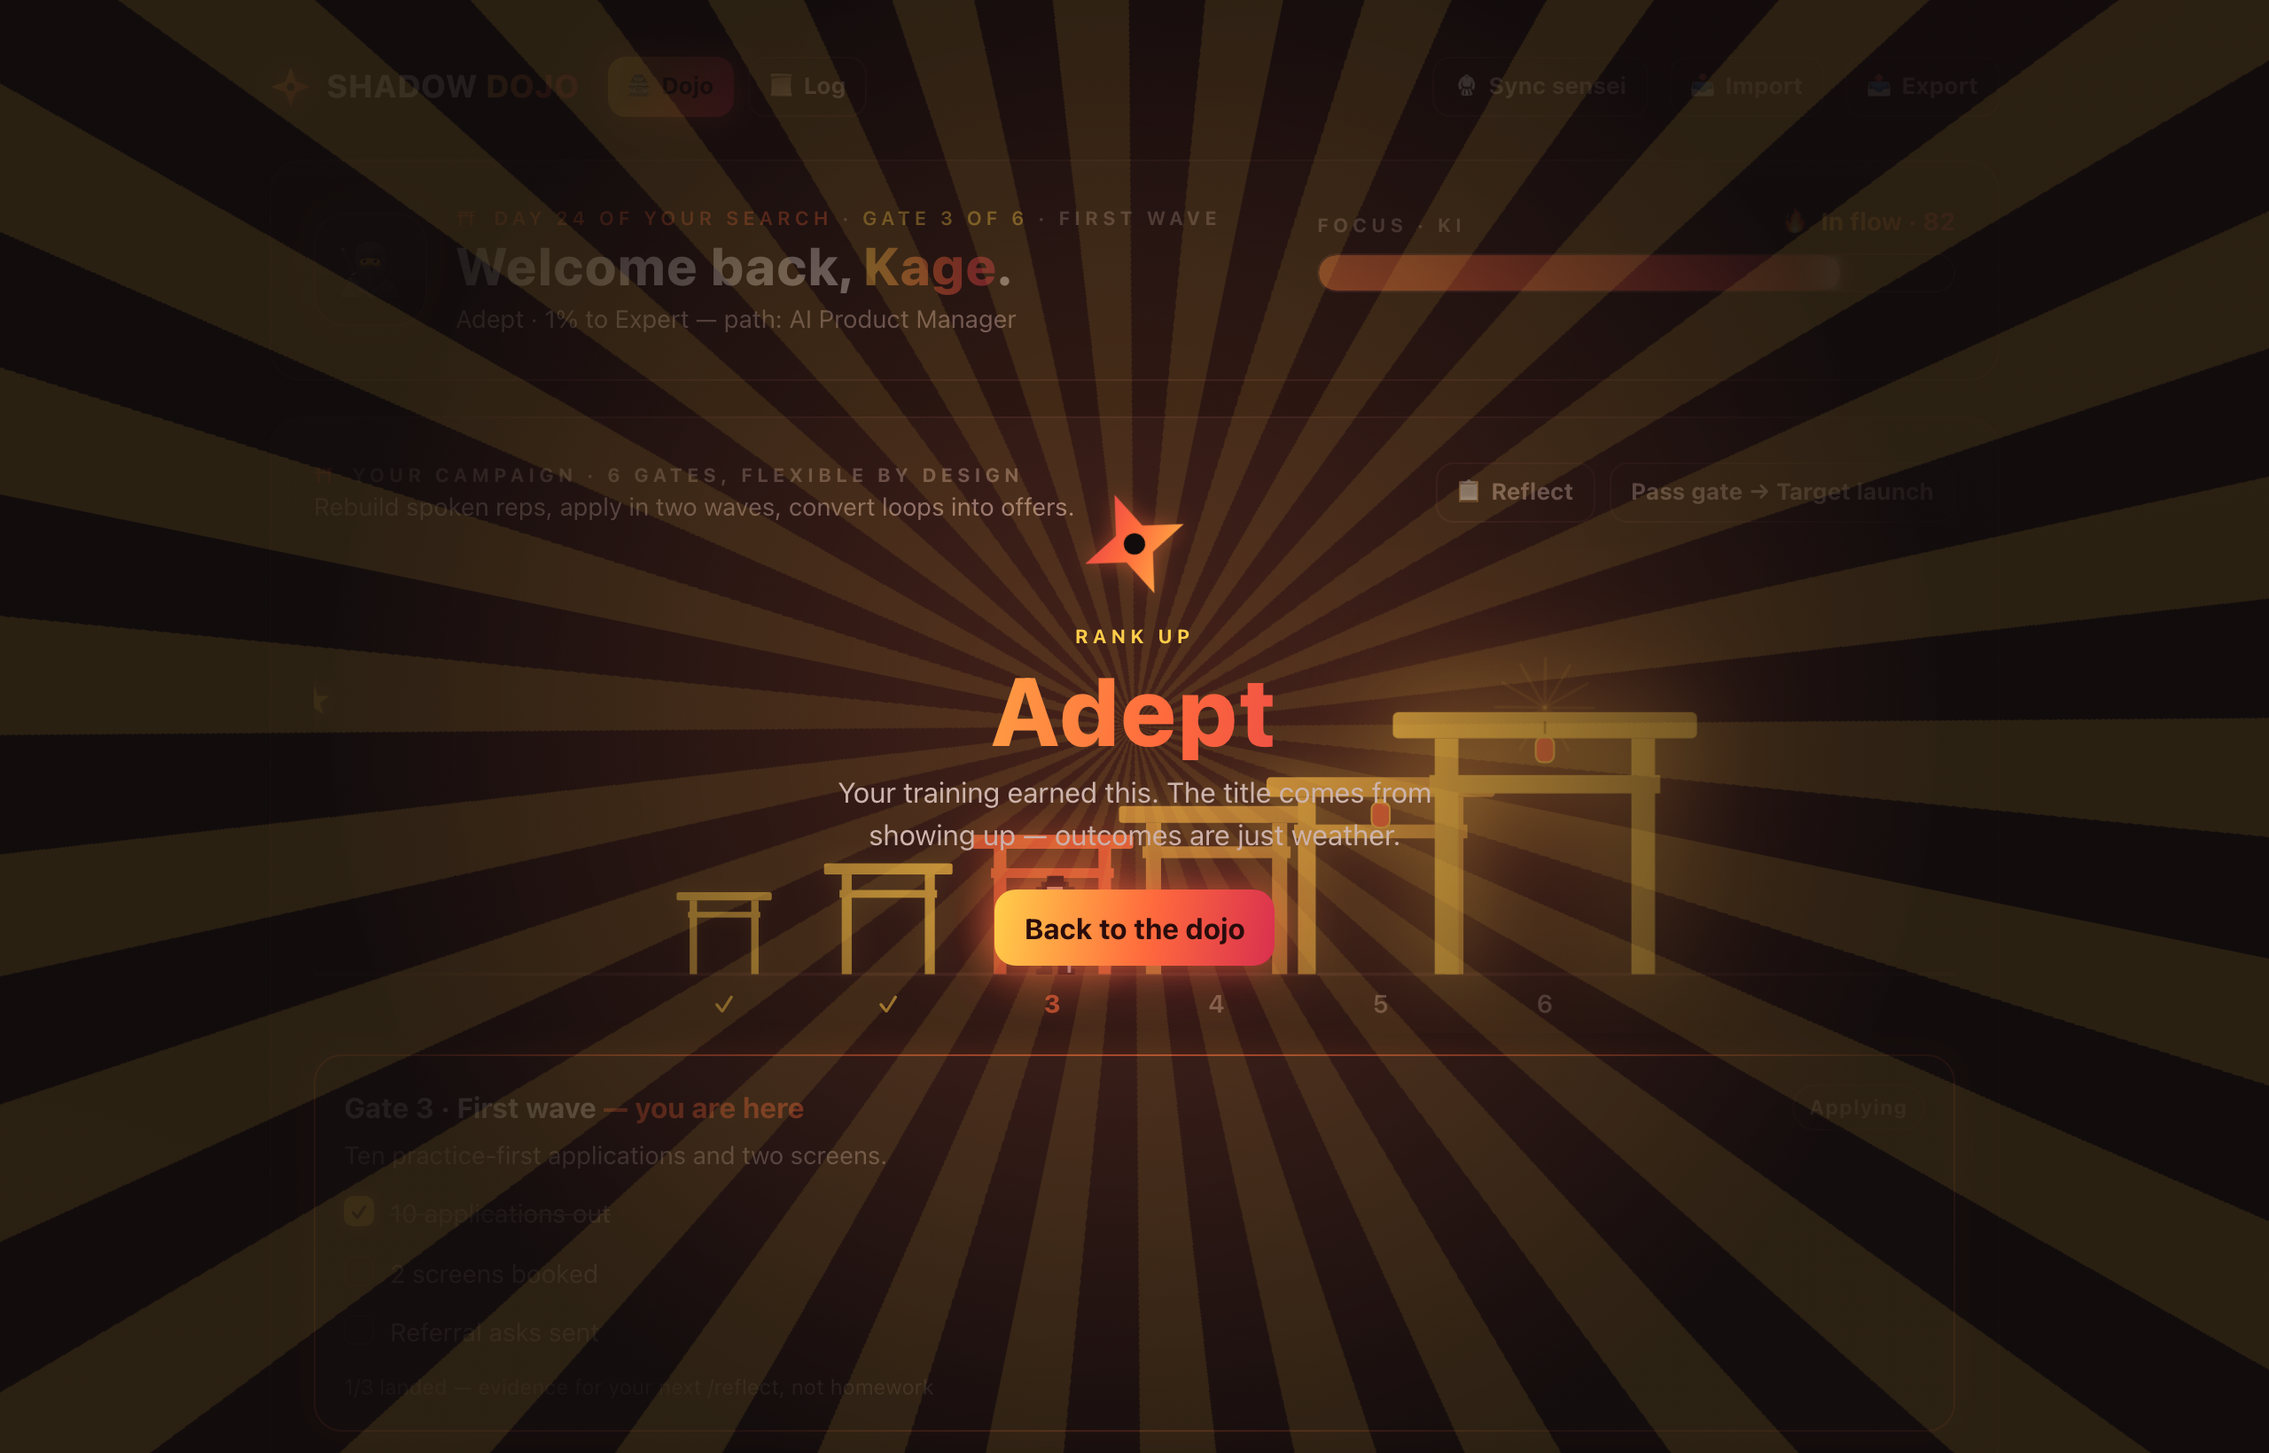
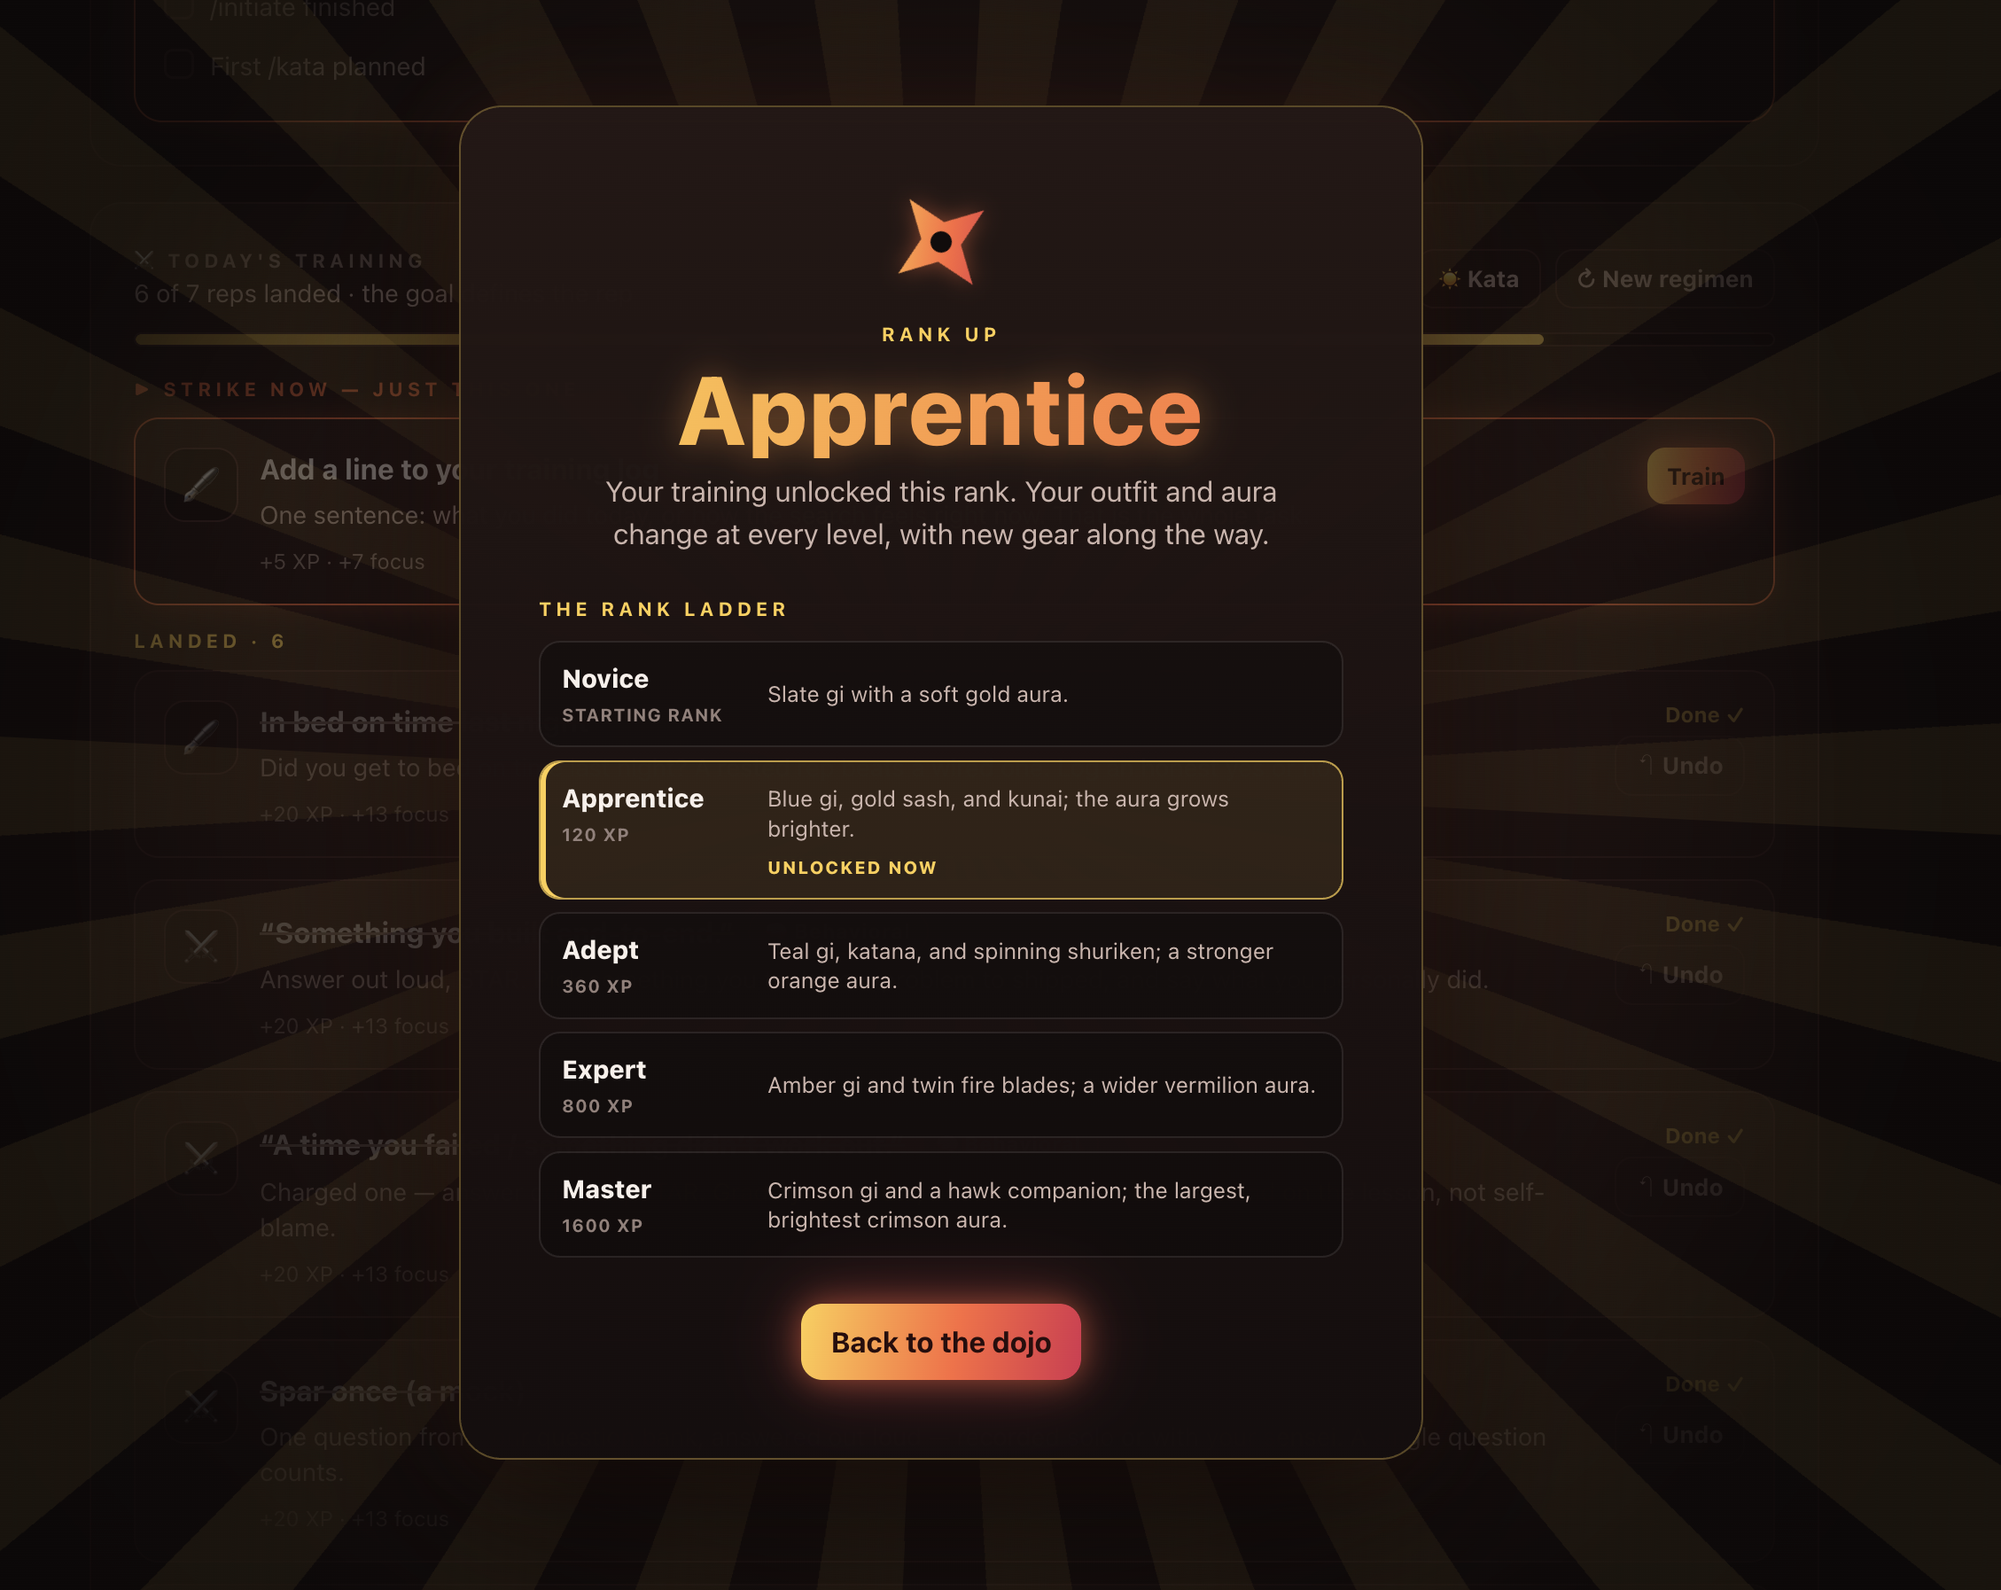
Improve overlay readability and rank-up details

diff --git a/src/features/onboarding/Onboarding.tsx b/src/features/onboarding/Onboarding.tsx
@@ -80,17 +80,25 @@ export function Onboarding() {
             <h1 className="display text-3xl mb-2">
               Link your <span className="ki-text">save file</span>.
             </h1>
-            <p className="mb-3" style={{ color: 'var(--ink-dim)' }}>
-              The app keeps your progress inside your browser, where your AI sensei can't see it.
-              Linking keeps a copy in a file in this project's <code>my/</code> folder, updated every
-              time something changes. Your sensei reads that file and writes your daily plan into it,
-              and the app picks the changes up when you come back to this tab.
+            <p className="mb-4" style={{ color: 'var(--ink-dim)' }}>
+              Save it in this project's <code>my/</code> folder, so your sensei can read it.
             </p>
             {canLink ? (
               <>
+                <ol className="text-sm grid gap-2 mb-4" style={{ color: 'var(--ink-dim)', paddingLeft: '1.2rem', listStyle: 'decimal' }}>
+                  <li>
+                    Click <strong>Choose where to save</strong>.
+                  </li>
+                  <li>
+                    In the dialog, open the <code>shadow-dojo-app</code> folder, then the <code>my</code>{' '}
+                    folder inside it.
+                  </li>
+                  <li>
+                    Keep the name <code>shadow-dojo.json</code> and click <strong>Save</strong>.
+                  </li>
+                </ol>
                 <p className="text-sm mb-4" style={{ color: 'var(--ink-faint)' }}>
-                  In the save dialog, open the <code>my/</code> folder inside the shadow-dojo-app
-                  folder and keep the name <code>shadow-dojo.json</code>.
+                  You should end up with <code>shadow-dojo-app/my/shadow-dojo.json</code>.
                 </p>
                 {linkedName ? (
                   <p className="text-sm gold-text">Linked ✓ {linkedName}</p>
@@ -104,6 +112,11 @@ export function Onboarding() {
                     {linkError}
                   </p>
                 )}
+                <p className="text-xs mt-4" style={{ color: 'var(--ink-faint)' }}>
+                  Why: the app keeps your progress inside your browser, where your sensei can't see it.
+                  The linked file stays in sync. Every change you make is saved to it, and anything your
+                  sensei writes there, like today's plan, shows up when you come back to this tab.
+                </p>
               </>
             ) : (
               <p className="text-sm" style={{ color: 'var(--ink-faint)' }}>
@@ -118,27 +131,42 @@ export function Onboarding() {
         {step === 2 && (
           <>
             <h1 className="display text-3xl mb-2">
-              Wake your <span className="ki-text">sensei</span>.
+              Meet your <span className="ki-text">sensei</span>.
             </h1>
             <p className="mb-4" style={{ color: 'var(--ink-dim)' }}>
-              Your coach is an AI agent working in this folder. It sets up your campaign, plans your
-              training, and runs the job-search skills with you.
+              Your sensei is an AI coding agent working in this folder. Open the{' '}
+              <code>shadow-dojo-app</code> folder in your agent, then start your first session one of
+              two ways:
             </p>
-            <ol className="text-sm grid gap-2 mb-4" style={{ color: 'var(--ink-dim)', paddingLeft: '1.2rem', listStyle: 'decimal' }}>
-              <li>Open this project's folder in Claude Code, Codex, or Cursor.</li>
-              <li>
-                Type <code>/initiate</code> in Claude Code, or paste the prompt below in other agents.
-                Your sensei will walk you through setup and interview you.
-              </li>
-              <li>
-                When it's done, click <strong>Sync sensei</strong> in the top bar to pull in your
-                campaign and your first day's plan.
-              </li>
-            </ol>
-            <button className="btn btn-ghost btn-sm" onClick={() => void copyInitiate()}>
-              {copied ? 'Copied ✓' : '📋 Copy the first prompt'}
-            </button>
-            <p className="text-xs mt-3" style={{ color: 'var(--ink-faint)' }}>
+            <div className="panel-raised p-4">
+              <div className="eyebrow mb-2">Option 1 · Claude Code</div>
+              <p className="text-sm" style={{ color: 'var(--ink-dim)' }}>
+                Type <code>/initiate</code> and press Enter.
+              </p>
+            </div>
+            <div className="text-xs text-center my-2" style={{ color: 'var(--ink-faint)' }}>
+              or
+            </div>
+            <div className="panel-raised p-4">
+              <div className="eyebrow mb-2">Option 2 · Any other agent (Codex, Cursor…)</div>
+              <p className="text-sm mb-2" style={{ color: 'var(--ink-dim)' }}>
+                Copy this prompt and paste it into the agent's chat:
+              </p>
+              <p
+                className="text-sm mb-3"
+                style={{ color: 'var(--ink-dim)', background: 'var(--bg-2)', border: '1px solid var(--line)', borderRadius: 10, padding: '0.6rem 0.75rem' }}
+              >
+                {INITIATE_PROMPT}
+              </p>
+              <button className="btn btn-ghost btn-sm" onClick={() => void copyInitiate()}>
+                {copied ? 'Copied ✓' : '📋 Copy the prompt'}
+              </button>
+            </div>
+            <p className="text-sm mt-4" style={{ color: 'var(--ink-dim)' }}>
+              Either way, your sensei walks you through setup and interviews you. When it's done, click{' '}
+              <strong>Sync sensei</strong> in the top bar to pull in your campaign and first day's plan.
+            </p>
+            <p className="text-xs mt-2" style={{ color: 'var(--ink-faint)' }}>
               Until then, the dojo gives you a starter set of reps.
             </p>
           </>

diff --git a/src/components/RankUpOverlay.tsx b/src/components/RankUpOverlay.tsx
@@ -1,5 +1,14 @@
 import { useDojo } from '../store/dojo'
 import { Shuriken } from './Shuriken'
+import { TITLES } from '../domain/titles'
+
+const TITLE_UPGRADES: Record<string, string> = {
+  Novice: 'Slate gi with a soft gold aura.',
+  Apprentice: 'Blue gi, gold sash, and kunai; the aura grows brighter.',
+  Adept: 'Teal gi, katana, and spinning shuriken; a stronger orange aura.',
+  Expert: 'Amber gi and twin fire blades; a wider vermilion aura.',
+  Master: 'Crimson gi and a hawk companion; the largest, brightest crimson aura.',
+}
 
 // Full-screen fanfare when your title rises. Excitement on the upside.
 export function RankUpOverlay() {
@@ -7,19 +16,57 @@ export function RankUpOverlay() {
   const clear = useDojo((s) => s.clearRankUp)
   if (!rankUp) return null
   return (
-    <div className="fanfare" onClick={clear}>
+    <div
+      className="fanfare"
+      onClick={(event) => {
+        if (event.target === event.currentTarget) clear()
+      }}
+    >
       <div className="fanfare-rays" />
-      <div className="fanfare-card">
+      <div
+        className="fanfare-card"
+        role="dialog"
+        aria-modal="true"
+        aria-labelledby="rank-up-title"
+      >
         <div className="flex justify-center mb-3">
           <Shuriken size={64} spin />
         </div>
         <div className="eyebrow gold-text">Rank up</div>
-        <div className="display ki-text" style={{ fontSize: '3.4rem', margin: '0.4rem 0' }}>
+        <div
+          id="rank-up-title"
+          className="display ki-text-bright"
+          style={{ fontSize: '3.4rem', margin: '0.4rem 0' }}
+        >
           {rankUp.title}
         </div>
-        <p style={{ color: 'var(--ink-dim)', maxWidth: 360, margin: '0 auto 1.2rem' }}>
-          Your training earned this. The title comes from showing up — outcomes are just weather.
+        <p style={{ color: 'var(--ink-dim)', maxWidth: 390, margin: '0 auto 1.2rem' }}>
+          Your training unlocked this rank. Your outfit and aura change at every level, with new gear along the way.
         </p>
+        <section className="rank-up-rewards" aria-label="Upgrades at each rank">
+          <h2 className="eyebrow gold-text">The rank ladder</h2>
+          <ol className="rank-up-ladder">
+            {TITLES.map((tier) => {
+              const unlockedNow = tier.name === rankUp.title
+              return (
+                <li
+                  key={tier.name}
+                  className={`rank-up-tier${unlockedNow ? ' is-current' : ''}`}
+                  aria-current={unlockedNow ? 'step' : undefined}
+                >
+                  <div className="rank-up-tier-label">
+                    <span className="rank-up-tier-name">{tier.name}</span>
+                    <span className="rank-up-tier-xp">
+                      {tier.minXp === 0 ? 'Starting rank' : `${tier.minXp} XP`}
+                    </span>
+                  </div>
+                  <span className="rank-up-tier-reward">{TITLE_UPGRADES[tier.name]}</span>
+                  {unlockedNow && <span className="rank-up-unlocked">Unlocked now</span>}
+                </li>
+              )
+            })}
+          </ol>
+        </section>
         <button className="btn btn-primary" onClick={clear}>
           Back to the dojo
         </button>

diff --git a/src/index.css b/src/index.css
@@ -252,18 +252,83 @@ textarea.field { resize: vertical; min-height: 3.2rem; }
   z-index: 80;
   display: grid;
   place-items: center;
-  background: radial-gradient(circle at center, rgba(255, 106, 61, 0.18), rgba(18, 12, 12, 0.92) 60%);
+  padding: 1.25rem;
+  overflow-y: auto;
+  background: radial-gradient(
+    circle at center,
+    rgba(255, 106, 61, 0.08),
+    rgba(12, 8, 8, 0.9) 58%,
+    rgba(12, 8, 8, 0.96)
+  );
   animation: fadeIn 0.3s ease;
 }
-.fanfare-card { text-align: center; animation: popIn 0.6s cubic-bezier(0.16, 1, 0.3, 1); position: relative; }
+.fanfare-card {
+  position: relative;
+  z-index: 1;
+  width: min(100%, 34rem);
+  max-height: calc(100dvh - 2.5rem);
+  overflow-y: auto;
+  padding: clamp(1.5rem, 5vw, 2.75rem);
+  text-align: center;
+  background: linear-gradient(180deg, rgba(37, 23, 21, 0.99), rgba(21, 14, 14, 0.99));
+  border: 1px solid rgba(255, 206, 74, 0.3);
+  border-radius: 24px;
+  box-shadow: 0 24px 90px rgba(0, 0, 0, 0.72), 0 0 42px rgba(255, 106, 61, 0.12);
+  animation: popIn 0.6s cubic-bezier(0.16, 1, 0.3, 1);
+}
 .fanfare-rays {
   position: absolute;
+  z-index: 0;
   width: 130vmax; height: 130vmax;
   left: 50%; top: 50%;
   margin-left: -65vmax; margin-top: -65vmax;
-  background: repeating-conic-gradient(from 0deg, rgba(255, 206, 74, 0.10) 0deg 6deg, transparent 6deg 12deg);
+  background: repeating-conic-gradient(from 0deg, rgba(255, 206, 74, 0.055) 0deg 6deg, transparent 6deg 12deg);
   animation: spin 14s linear infinite;
   pointer-events: none;
+}
+.rank-up-rewards { margin: 1.4rem 0 1.6rem; }
+.rank-up-rewards > .eyebrow { margin-bottom: 0.6rem; text-align: left; }
+.rank-up-ladder {
+  display: grid;
+  gap: 0.45rem;
+  margin: 0;
+  padding: 0;
+  list-style: none;
+  text-align: left;
+}
+.rank-up-tier {
+  display: grid;
+  grid-template-columns: 6.5rem minmax(0, 1fr);
+  align-items: center;
+  column-gap: 0.75rem;
+  row-gap: 0.2rem;
+  padding: 0.6rem 0.75rem;
+  border: 1px solid rgba(255, 240, 234, 0.1);
+  border-radius: 12px;
+  background: rgba(8, 5, 5, 0.32);
+}
+.rank-up-tier.is-current {
+  border-color: rgba(255, 206, 74, 0.7);
+  background: rgba(255, 206, 74, 0.09);
+  box-shadow: inset 3px 0 0 var(--gold);
+}
+.rank-up-tier-label { display: grid; gap: 0.15rem; }
+.rank-up-tier-name { font-size: 0.9rem; font-weight: 800; }
+.rank-up-tier-xp {
+  color: var(--ink-faint);
+  font-size: 0.63rem;
+  font-weight: 700;
+  letter-spacing: 0.04em;
+  text-transform: uppercase;
+}
+.rank-up-tier-reward { color: var(--ink-dim); font-size: 0.78rem; line-height: 1.35; }
+.rank-up-unlocked {
+  grid-column: 2;
+  color: var(--gold);
+  font-size: 0.62rem;
+  font-weight: 800;
+  letter-spacing: 0.08em;
+  text-transform: uppercase;
 }
 @keyframes spin { to { transform: rotate(360deg); } }
 @keyframes fadeIn { from { opacity: 0; } to { opacity: 1; } }

diff --git a/src/components/GatePassOverlay.tsx b/src/components/GatePassOverlay.tsx
@@ -8,9 +8,19 @@ export function GatePassOverlay() {
   const clear = useDojo((s) => s.clearGatePassed)
   if (!gate) return null
   return (
-    <div className="fanfare" onClick={clear}>
+    <div
+      className="fanfare"
+      onClick={(event) => {
+        if (event.target === event.currentTarget) clear()
+      }}
+    >
       <div className="fanfare-rays" />
-      <div className="fanfare-card">
+      <div
+        className="fanfare-card"
+        role="dialog"
+        aria-modal="true"
+        aria-labelledby="gate-passed-title"
+      >
         <div className="flex justify-center mb-3">
           <svg
             width="120"
@@ -23,7 +33,11 @@ export function GatePassOverlay() {
           </svg>
         </div>
         <div className="eyebrow gold-text">Gate passed</div>
-        <div className="display ki-text" style={{ fontSize: '3rem', margin: '0.4rem 0' }}>
+        <div
+          id="gate-passed-title"
+          className="display ki-text-bright"
+          style={{ fontSize: '3rem', margin: '0.4rem 0' }}
+        >
           Gate {gate.gateNumber} of {gate.total}
         </div>
         <p style={{ color: 'var(--ink-dim)', maxWidth: 380, margin: '0 auto 1.2rem' }}>

diff --git a/README.md b/README.md
@@ -85,7 +85,7 @@ submits an application for you.
    npm run dev
    ```
 
-2. **Set up the app** (three screens): your name, linking the save file, and waking your sensei.
+2. **Set up the app** (three screens): your name, linking the save file, and meeting your sensei.
    Linking needs Chrome or Edge; in other browsers, use Export and Import instead. Save the file
    in this project's `my/` folder.
 3. **Turn on connectors in your AI agent:**
@@ -94,7 +94,12 @@ submits an application for you.
      without it.
    - **Gmail:** so `/kata` sees recruiter replies and interview invites. Read-only.
    - **Claude in Chrome:** so `/scout` and `/referral` can read pages you're logged into.
-4. **Open this folder in your agent and run `/initiate`.** Then click **Sync sensei** in the app.
+4. **Open this folder in your agent and start your first session,** one of two ways:
+   - **Claude Code:** type `/initiate`.
+   - **Any other agent (Codex, Cursor…):** paste the prompt from the app's third setup screen,
+     or just say "Read AGENTS.md, then run prompts/initiate.md with me."
+
+   Then click **Sync sensei** in the app.
 
 Optional tools: [Typst](https://typst.app) for `/forge`, and Bun (or Node's `npx tsx`) for
 `/patrol`.
